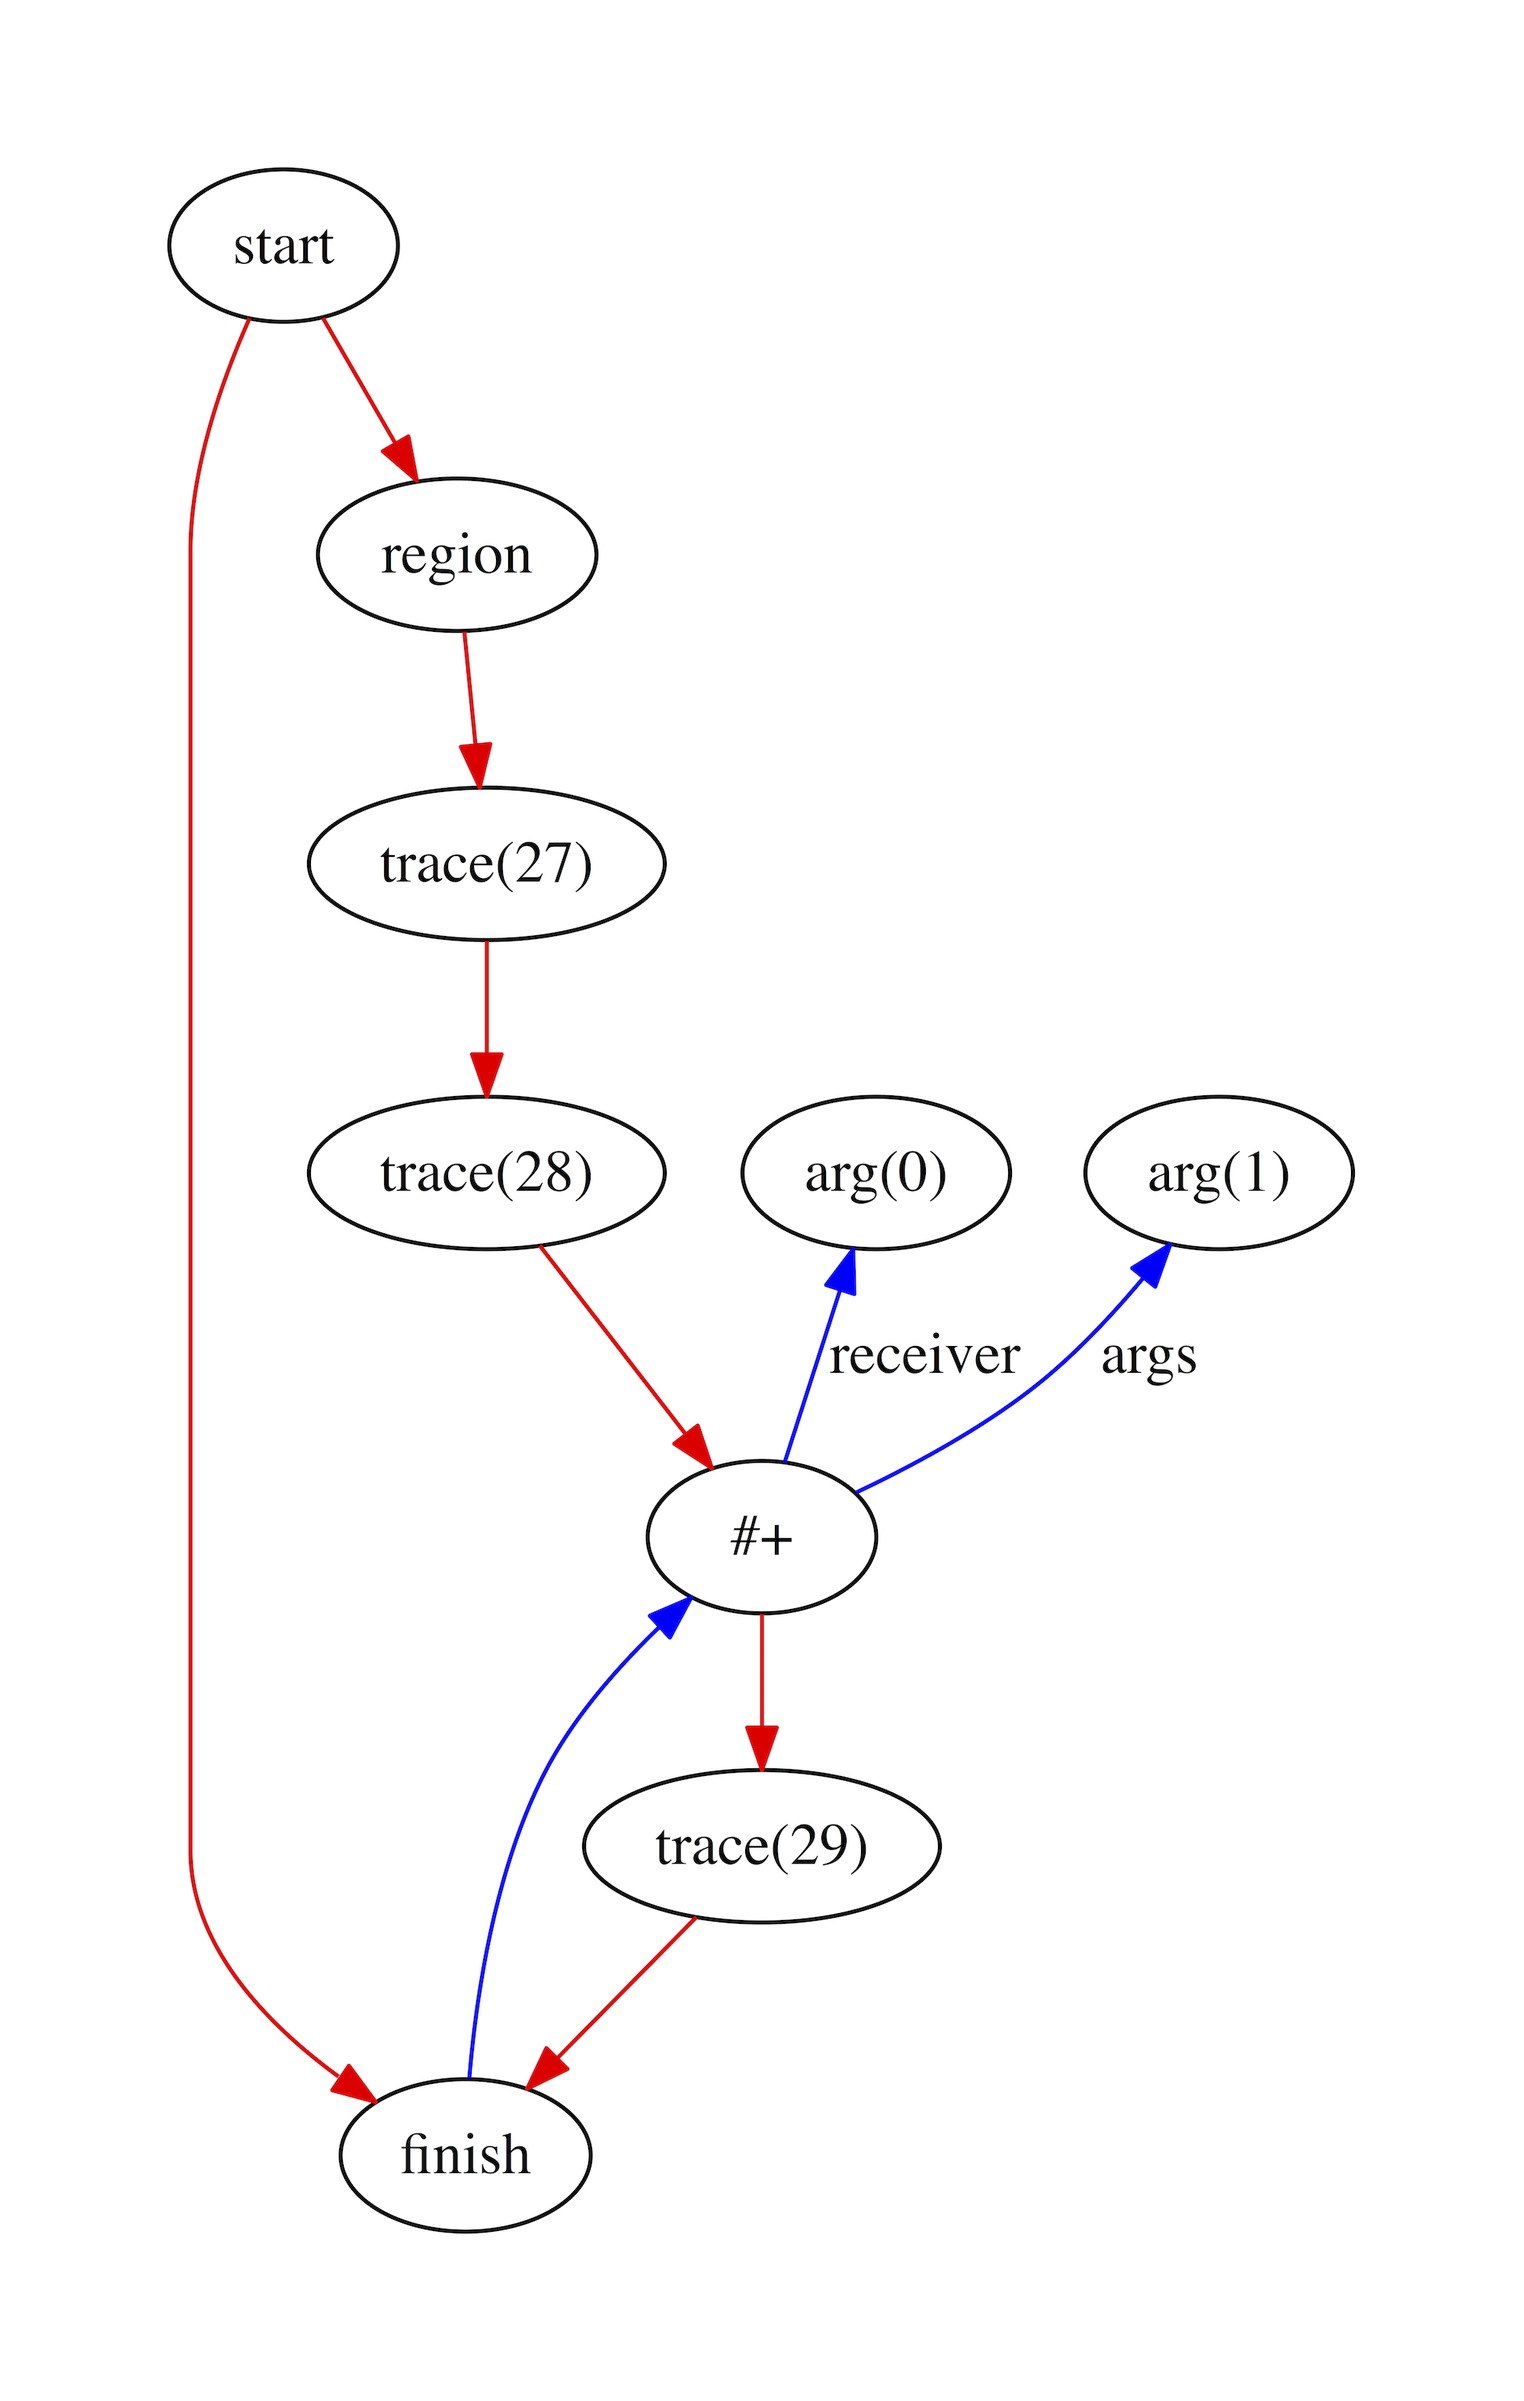
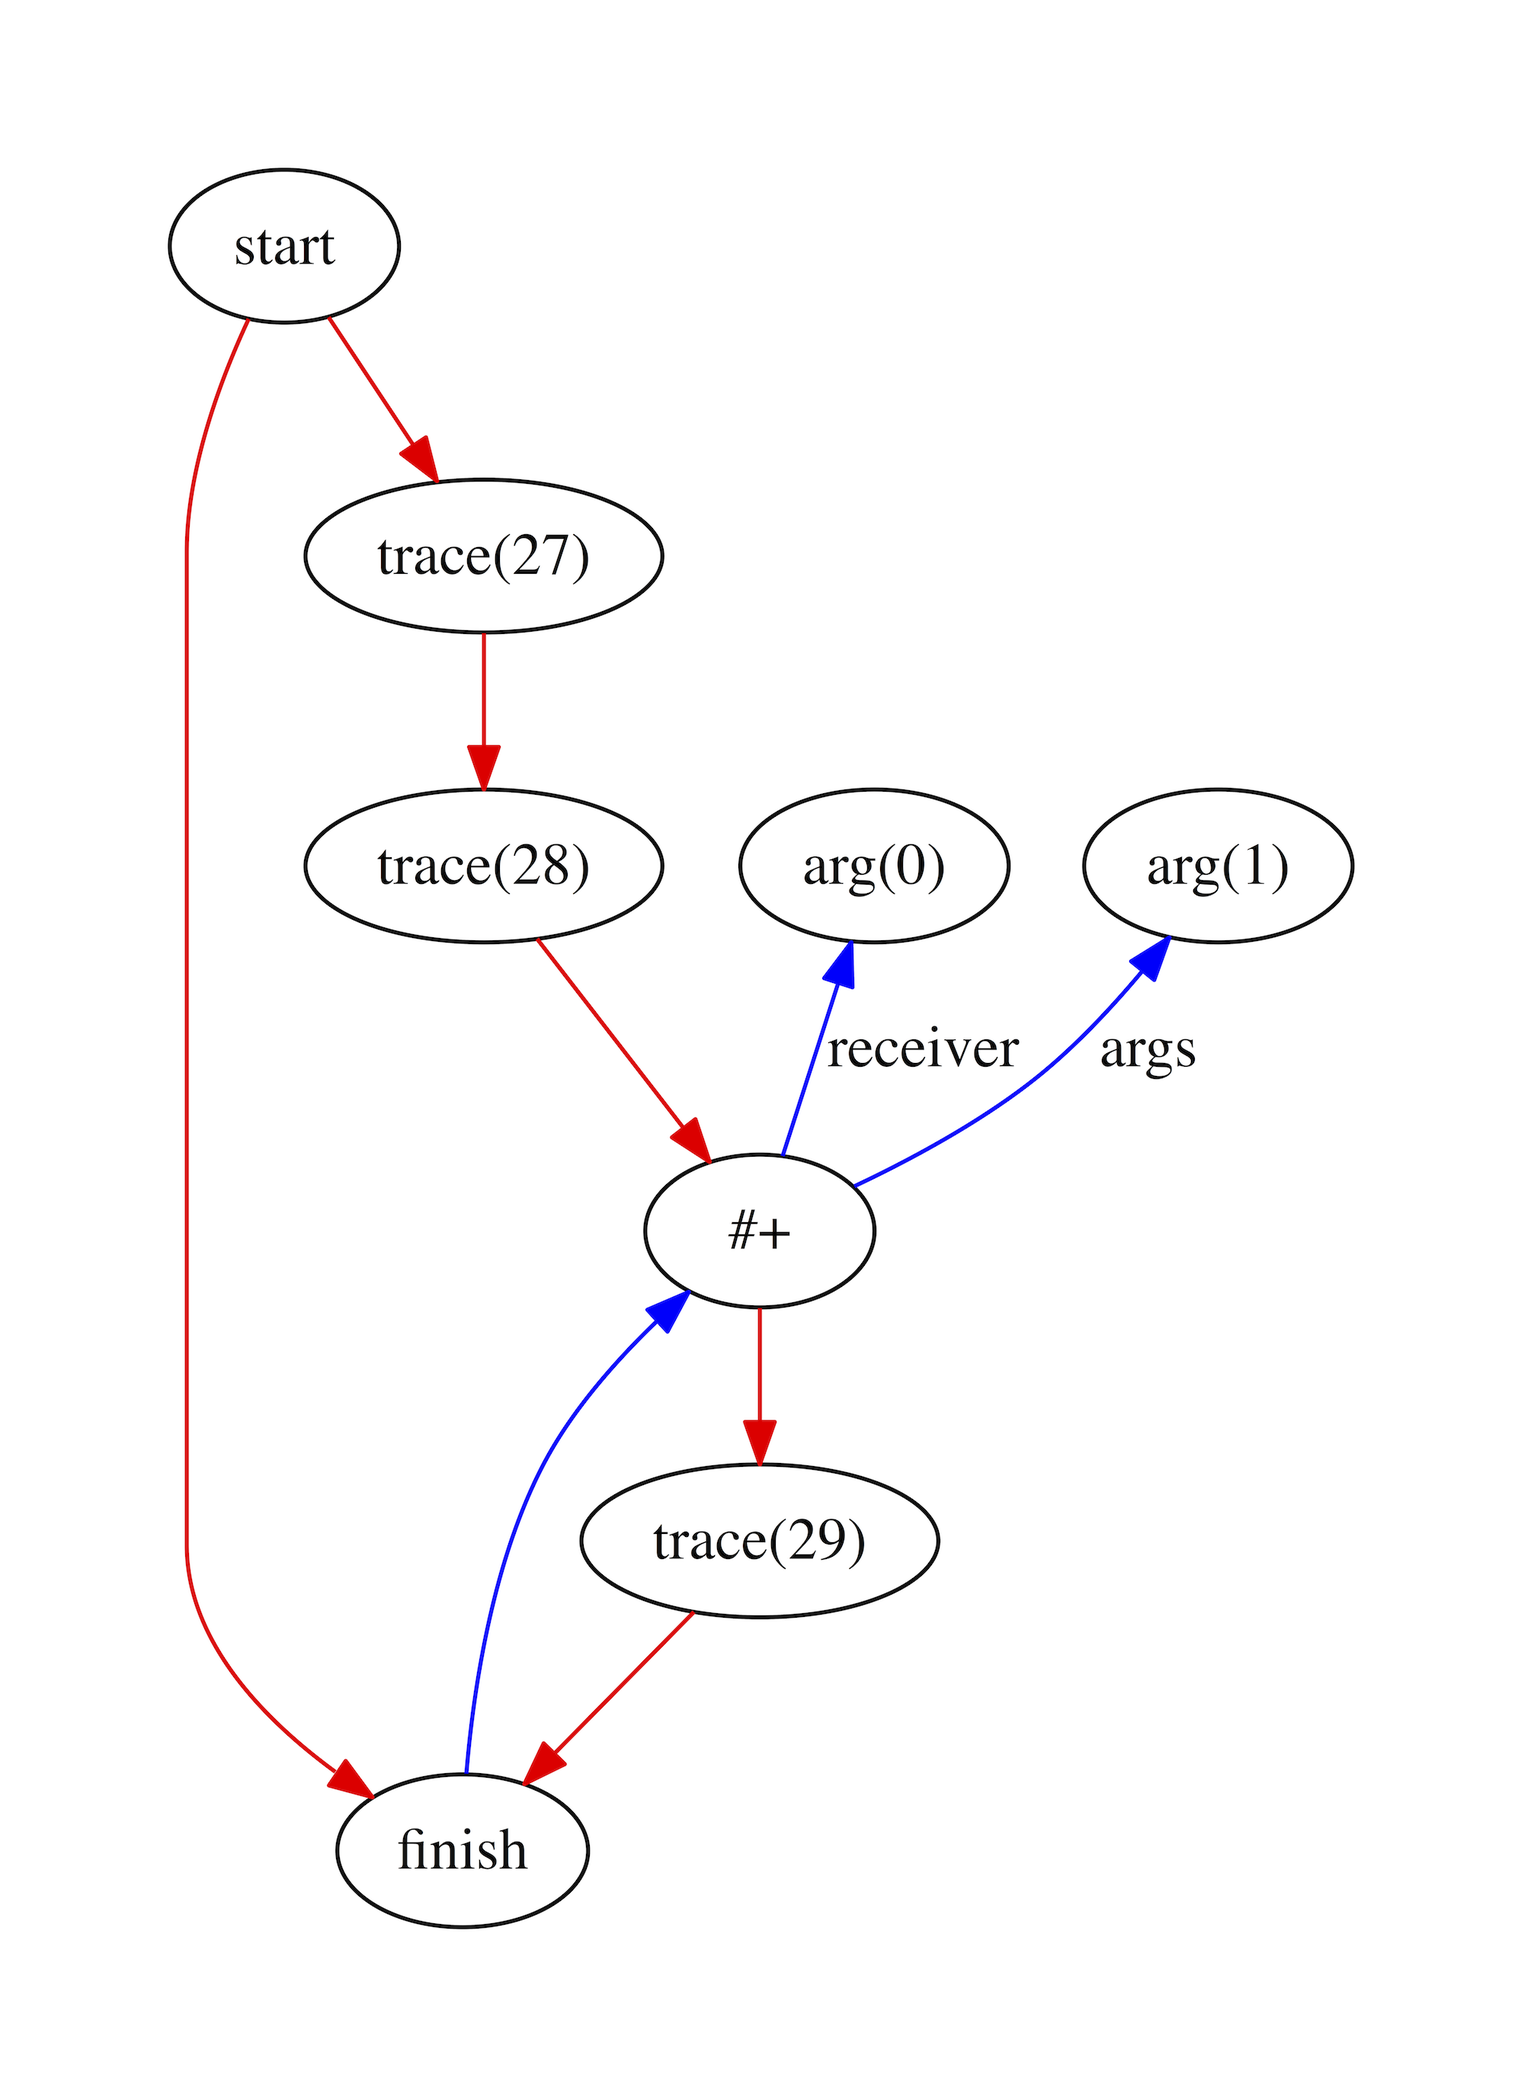
Post-build should remove regions that don't merge

diff --git a/lib/rubyjit/passes/postbuild.rb b/lib/rubyjit/passes/postbuild.rb
@@ -36,18 +36,27 @@ module RubyJIT
           # Remove branch and input nodes, as after construction both of these
           # are just going to sit on edges with one input and one output, and
           # we might as well directly connect the nodes that they are between.
+          # Also remove regions that have only one control input.
 
-          if [:branch, :input].include?(n.op)
-            raise unless n.inputs.size == 1
-            input = n.inputs.edges.first.from
-
-            n.outputs.edges.each do |output|
-              input.output_to output.output_name, output.to, output.input_name
-              output.to.inputs.edges.reject! { |input| input.from == n }
-            end
+          if [:branch, :input].include?(n.op) || (n.op == :region && n.outputs.size == 1)
+            # For each input edge...
 
             n.inputs.edges.each do |input|
-              input.from.outputs.edges.reject! { |output| output.to == n }
+              # ...connect them to each output the node had...
+
+              n.outputs.edges.each do |output|
+                input.from.output_to output.output_name, output.to, output.input_name
+              end
+
+              # ...and disconnect them from the node.
+
+              input.from.outputs.edges.reject! { |o| o.to == n }
+            end
+
+            # Disconnect the node from all outputs.
+
+            n.outputs.edges.each do |output|
+              output.to.inputs.edges.reject! { |i| i.from == n }
             end
           end
         end

diff --git a/spec/rubyjit/passes/postbuild_spec.rb b/spec/rubyjit/passes/postbuild_spec.rb
@@ -48,6 +48,28 @@ describe RubyJIT::Passes::PostBuild do
       expect(@graph.contains?(:input)).to be_falsey
     end
 
+    it 'removes region nodes that do not merge' do
+      region = RubyJIT::IR::Node.new(:region)
+      @graph.start.output_to :control, region
+      region.output_to :control, @graph.finish
+      expect(@graph.contains?(:region)).to be_truthy
+      @pass.run @graph
+      expect(@graph.contains?(:region)).to be_falsey
+    end
+
+    it 'does not remove region nodes that merge' do
+      a = RubyJIT::IR::Node.new(:region)
+      @graph.start.output_to :control, a
+      b = RubyJIT::IR::Node.new(:region)
+      @graph.start.output_to :control, b
+      merge = RubyJIT::IR::Node.new(:region)
+      a.output_to :control, merge
+      b.output_to :control, merge
+      expect(@graph.contains? { |n| n == merge }).to be_truthy
+      @pass.run @graph
+      expect(@graph.contains? { |n| n == merge }).to be_truthy
+    end
+
   end
 
 end

diff --git a/experiments/add.rb b/experiments/add.rb
@@ -27,6 +27,7 @@ require_relative '../spec/rubyjit/fixtures'
 builder = RubyJIT::IR::Builder.new
 fragment = builder.basic_block_to_fragment(RubyJIT::Fixtures::ADD_BYTECODE_RUBYJIT)
 graph = RubyJIT::IR::Graph.from_fragment(fragment)
+postbuild = RubyJIT::Passes::PostBuild.new
+postbuild.run graph
 graphviz = RubyJIT::IR::Graphviz.new(graph)
-
 graphviz.visualise 'add.pdf'
